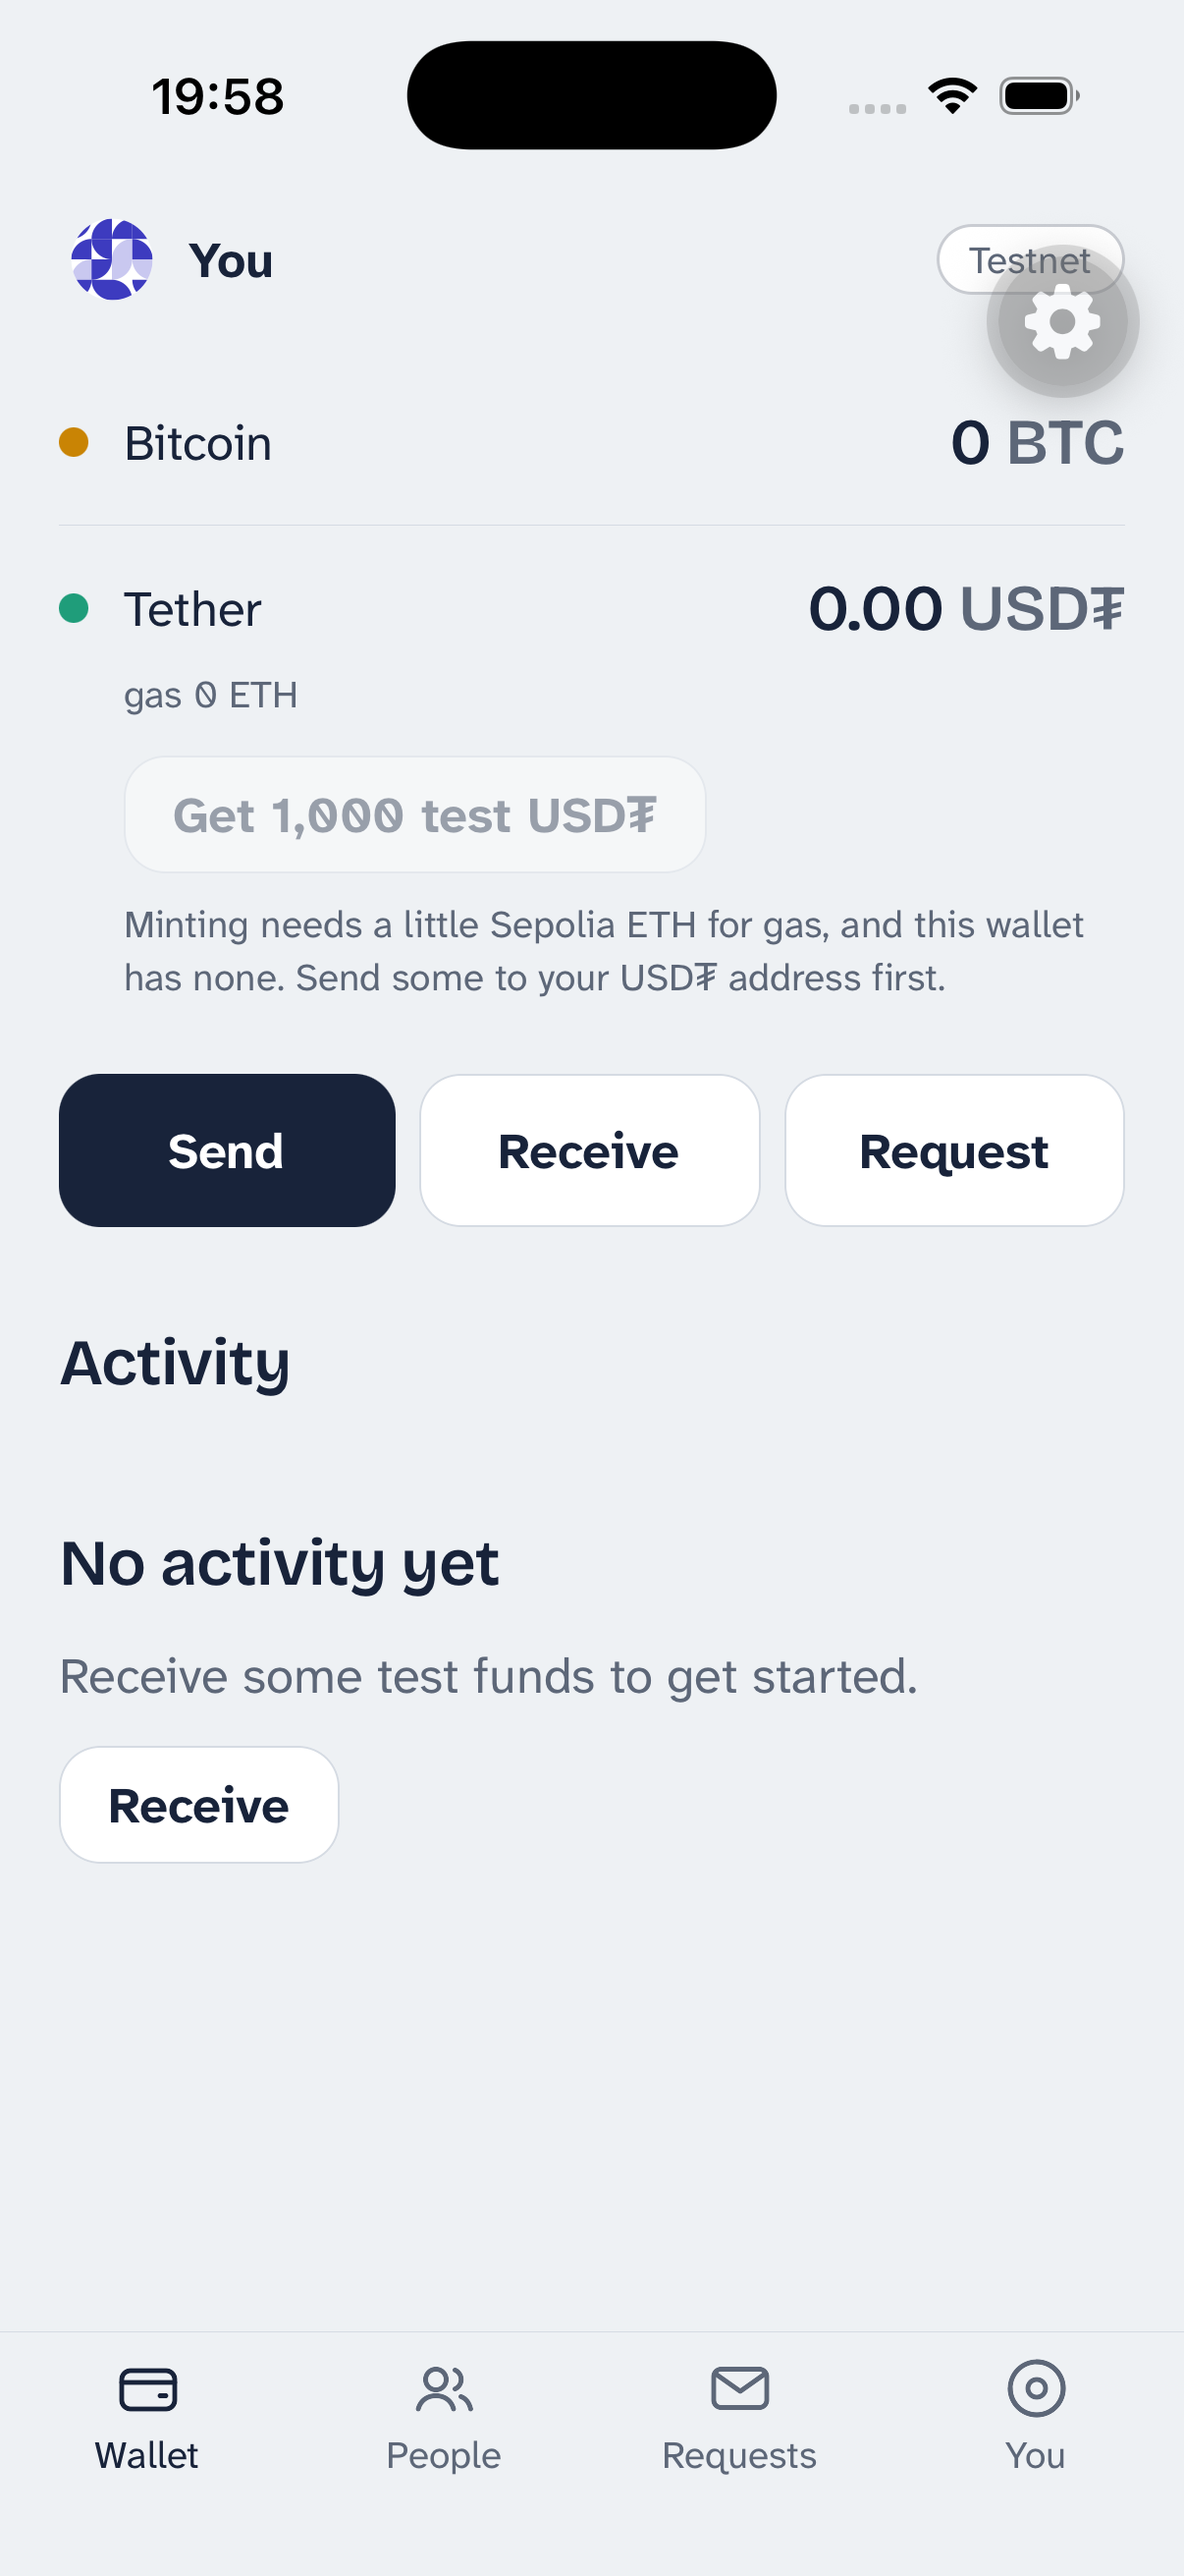
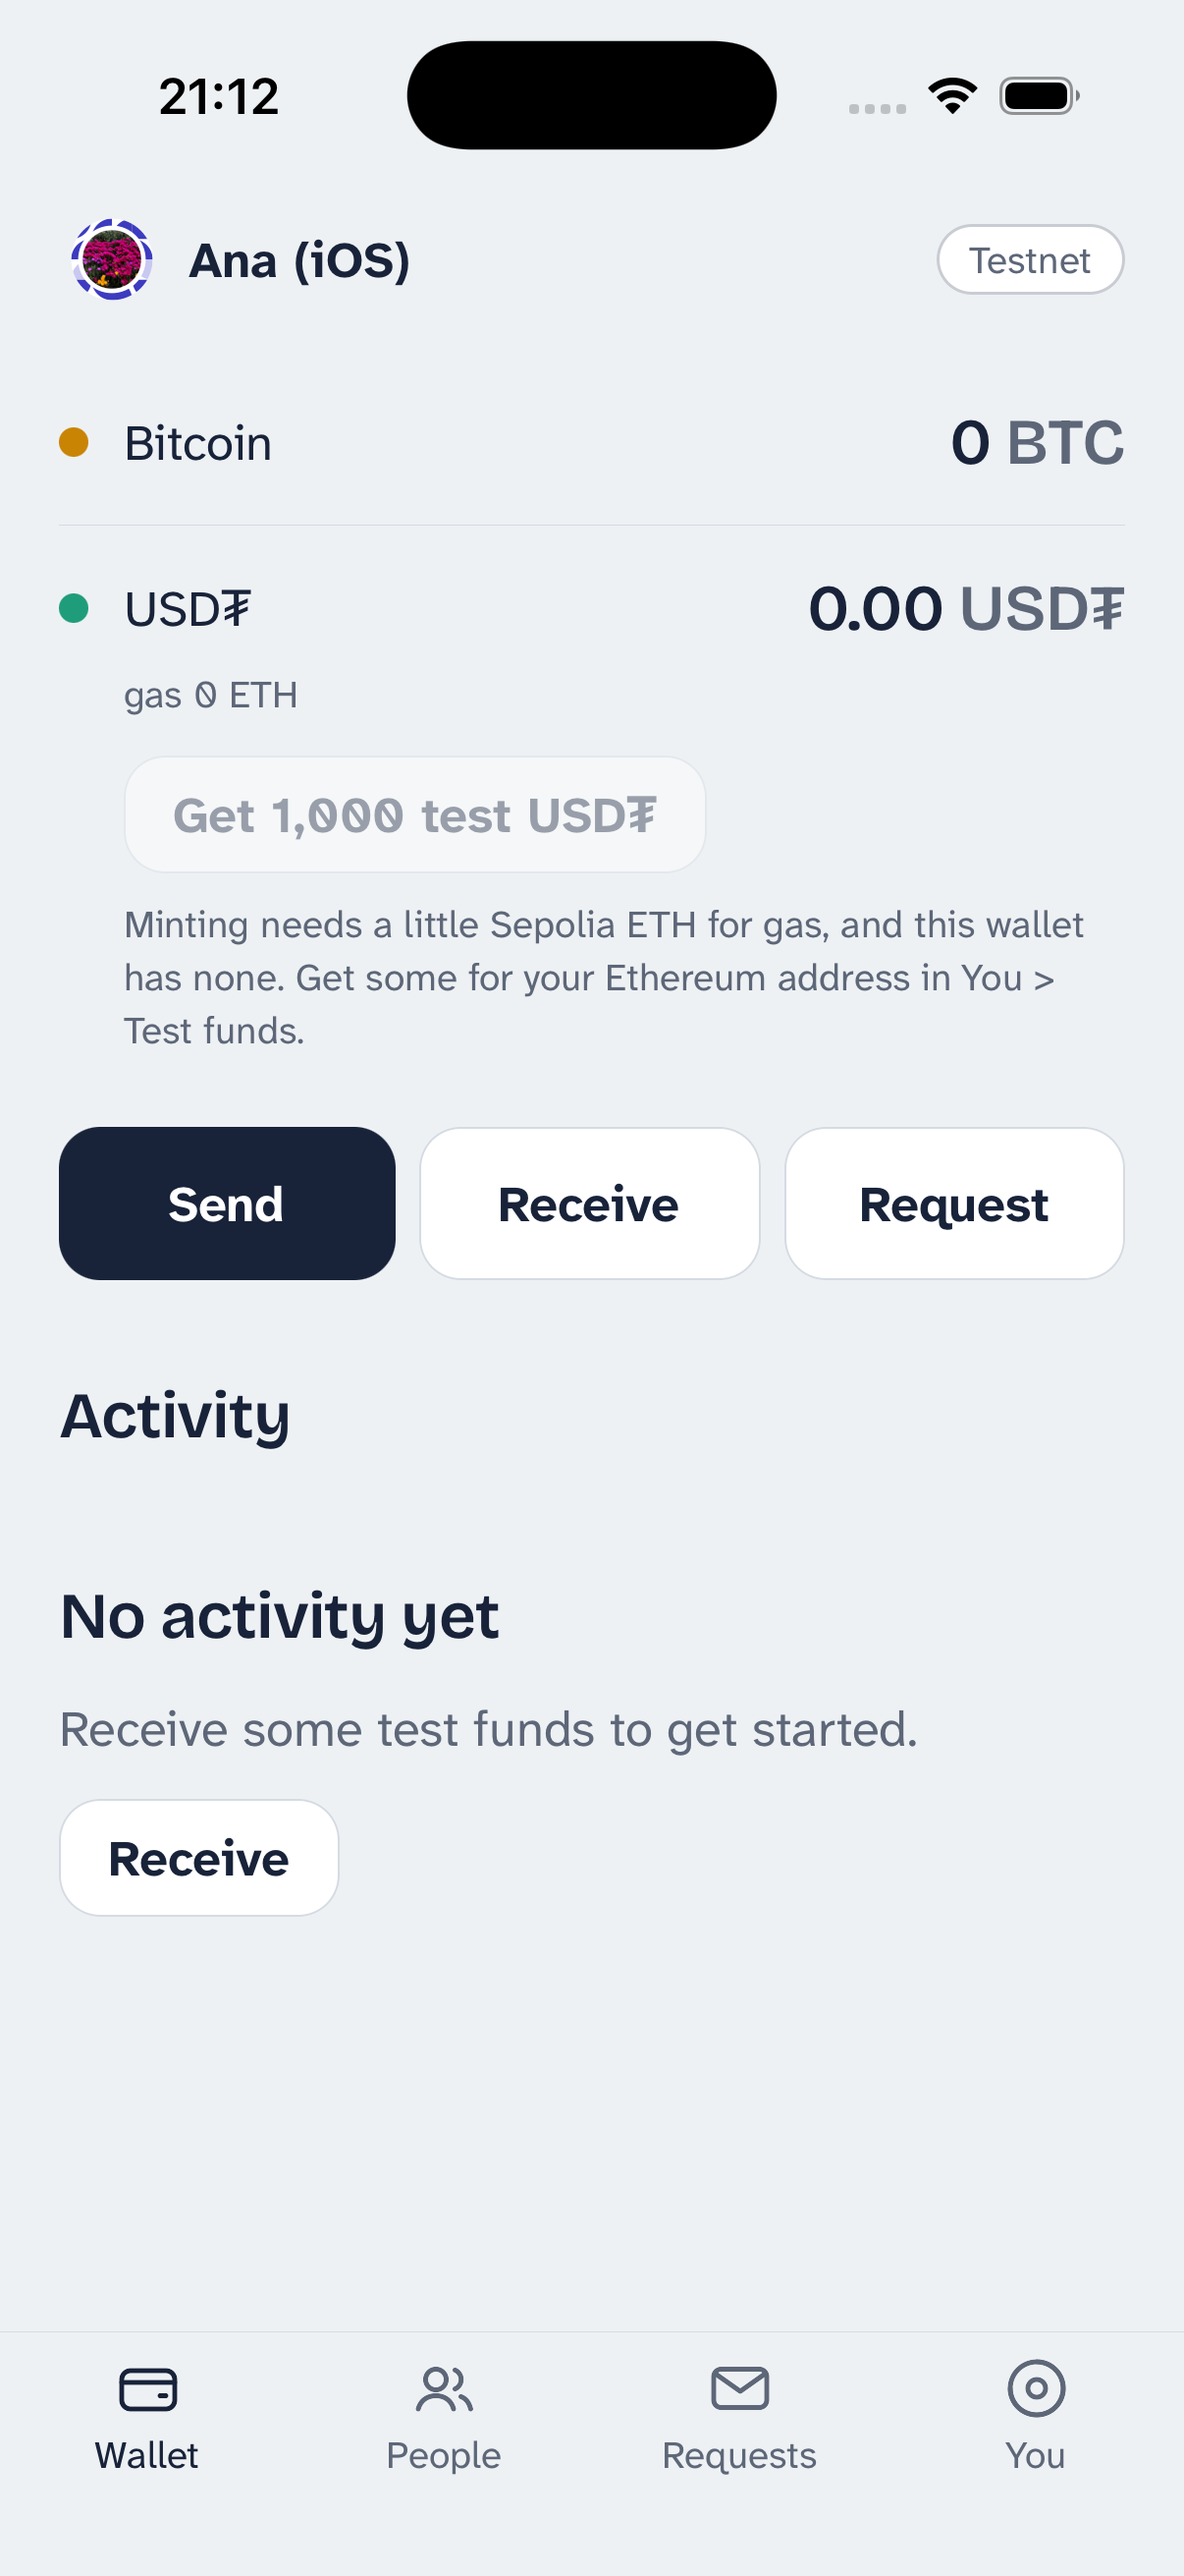
docs: retake screenshots without the dev tools button
The Expo dev client's floating button covered the Testnet chip. The
retaken shots show the review fixes: USD₮ naming, the contact status on
the pubky payee card, the pay-me code note, the contract refusal, the
Sepolia ETH faucet link and the full 'What you publish' heading (which
replaces the cropped 'BTC off' shot, removed in the previous commit along
with the old 'pubky no USD₮' shot). README says how to hide the button.

diff --git a/README.md b/README.md
@@ -172,6 +172,19 @@ Screenshots of each phase on both platforms are in
 [`docs/screenshots/`](docs/screenshots/) (`phase1/`, `phase2/`, `phase3/`); the Phase 0 spike
 screenshots are in [`docs/spike/`](docs/spike/).
 
+Before taking screenshots, hide the dev client's floating tools button so
+it does not cover the Testnet chip (it is a dev-build setting, stored per
+install; quit the app first, then relaunch it cold):
+
+```sh
+# iOS simulator
+xcrun simctl spawn <udid> defaults write com.jasonvdb.paykitwdkwallet EXDevMenuShowFloatingActionButton -bool false
+# Android emulator: add <boolean name="showFab" value="false" /> to
+# shared_prefs/expo.modules.devmenu.sharedpreferences.xml (adb shell run-as com.jasonvdb.paykitwdkwallet)
+```
+
+Never capture a screen that shows the recovery phrase.
+
 ## Paykit package
 
 Paykit's React Native bindings come from the unmerged
